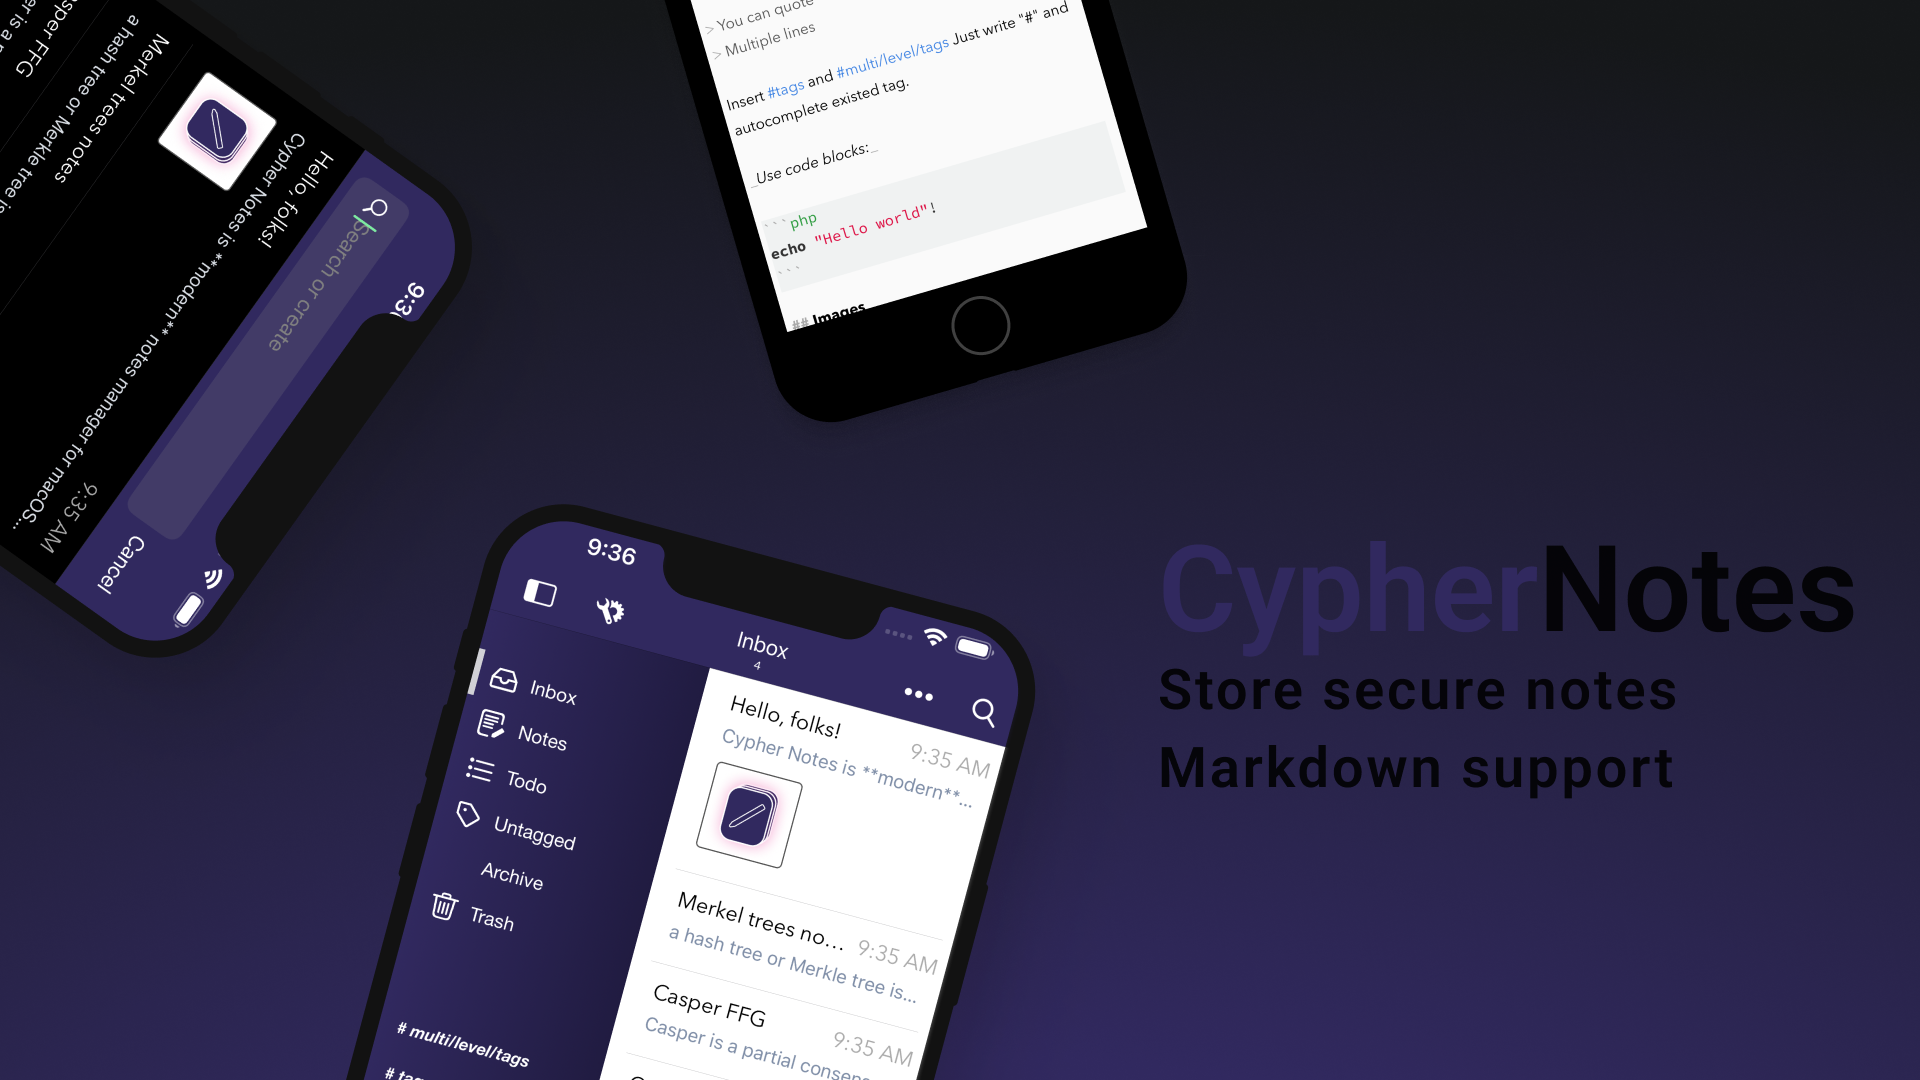
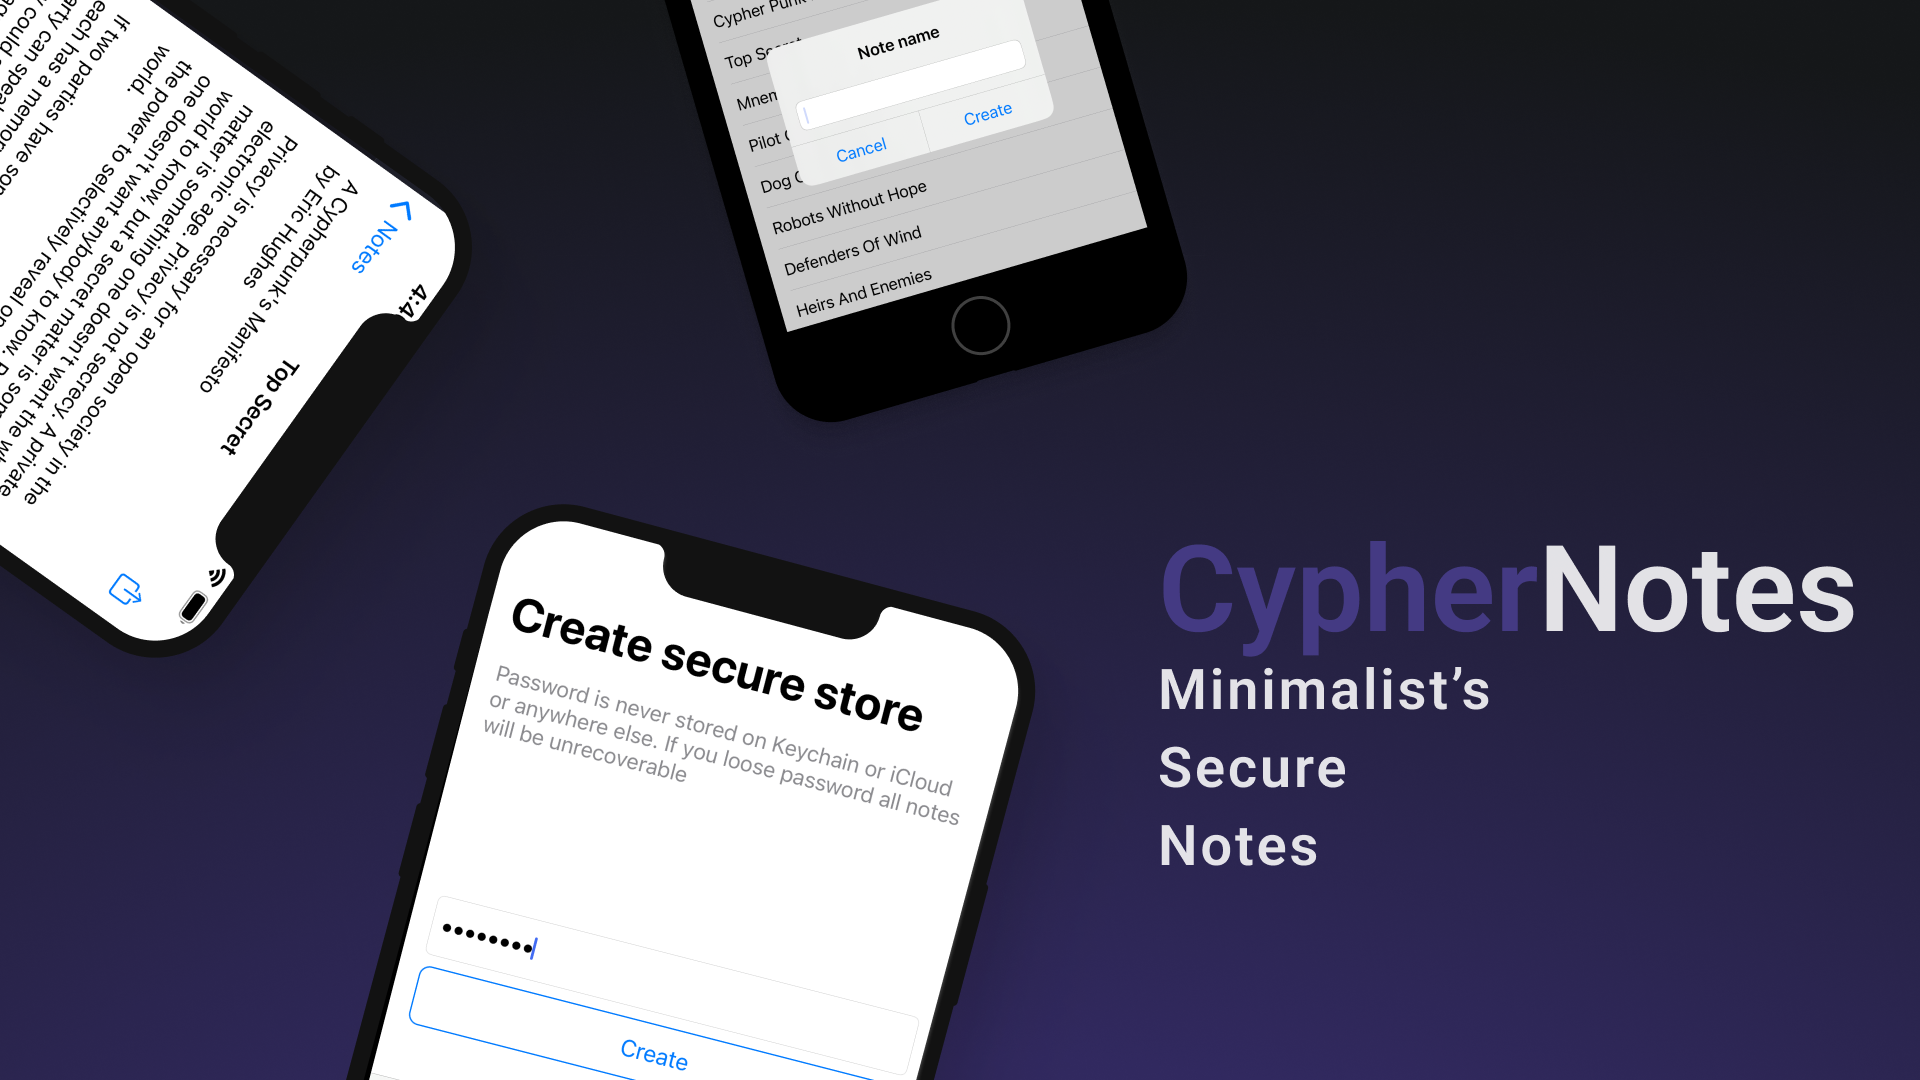
Updating site

diff --git a/app/(apps)/cyphernotes/page.tsx b/app/(apps)/cyphernotes/page.tsx
@@ -18,11 +18,14 @@ const featureDetails = [
         title: "Store images & plain text",
         subtitle: "Seamless exchange of plain text files, like Markdown or Fountain, between sandboxed applications."
     },
-    {title: "Store notes secure with", subtitle: "Encrypted Text Bundle is Text Pack, but encrypted with RNCryptor."},
-    {title: "Markdown-first", subtitle: " Additionally supports plaintext and RTF files."},
-    {title: "Fast and lightweight", subtitle: "Handles 10k+ files without breaking sweat"},
-    {title: "Access anywhere", subtitle: "Sync with iCloud Drive or Dropbox or even with Github repository."},
-    {title: "Syntax highlighting", subtitle: " within code blocks. Supports over 170 programming languages"},
+    {
+        title: "Store notes secure with",
+        subtitle: "Encrypted Text Bundle is Text Pack, but encrypted with RNCryptor."
+    },
+    {
+        title: "Markdown-first",
+        subtitle: " Additionally supports plaintext and RTF files."
+    },
 ]
 
 const zigzagItems = [
@@ -56,9 +59,11 @@ export default function CypherNotes() {
         <>
             <Hero
                 title={"Cypher Notes"}
-                subtitle={"Cypher notes is modern notes manager for iOS. App respects open formats like GitHub Flavored Markdown, so you can easily write documents on iPhone. It's simple and blazing fast!"}
-                downloadURL={"https://testflight.apple.com/join/MSYsRXau"}
-                supportURL={"https://github.com/libresoftwaredistribution/cyphersnotes/issues"}
+                subtitle={"Minimalist, Secure, Powerful, Notes"}
+                primaryTitle={"Download"}
+                primaryURL={"https://apps.apple.com/us/app/cypher-notes-by-lsd/id6461458801"}
+                secondaryTitle={"Support"}
+                secondaryURL={"https://github.com/libresoftwaredistribution/libresoftwaredistribution.github.io/issues"}
                 heroImage={heroImage}
             />
             <Features

diff --git a/components/hero.tsx b/components/hero.tsx
@@ -5,8 +5,10 @@ import Image from "next/image";
 interface HeroProps {
     title: string
     subtitle: string
-    downloadURL: string
-    supportURL: string
+    primaryTitle: string
+    primaryURL: string
+    secondaryTitle: string
+    secondaryURL: string
     heroImage: any
 }
 
@@ -14,8 +16,10 @@ interface HeroProps {
 export default function Hero({
     title,
     subtitle,
-    downloadURL,
-    supportURL,
+    primaryTitle,
+    primaryURL,
+    secondaryTitle,
+    secondaryURL,
     heroImage,
 }: HeroProps) {
     return (
@@ -50,17 +54,14 @@ export default function Hero({
                             <p className="text-xl text-gray-400 mb-8" data-aos="fade-up" data-aos-delay="200">
                                 {subtitle}
                             </p>
-                            <p className="text-xl text-gray-400 mb-8" data-aos="fade-up" data-aos-delay="200">
-                                © Libre Software Distribution S.R.L. 48394643 Romania
-                            </p>
                             <div className="max-w-xs mx-auto sm:max-w-none sm:flex sm:justify-center">
                                 <div data-aos="fade-up" data-aos-delay="400">
                                     <a className="btn text-white bg-purple-600 hover:bg-purple-700 w-full mb-4 sm:w-auto sm:mb-0"
-                                       href={downloadURL}>Book free consultation</a>
+                                       href={primaryURL}>{primaryTitle}</a>
                                 </div>
                                 <div data-aos="fade-up" data-aos-delay="600">
                                     <a className="btn text-white bg-gray-700 hover:bg-gray-800 w-full sm:w-auto sm:ml-4"
-                                       href={supportURL}>Support</a>
+                                       href={secondaryURL}>{secondaryTitle}</a>
                                 </div>
                             </div>
 

diff --git a/app/(apps)/timidbrowser/page.tsx b/app/(apps)/timidbrowser/page.tsx
@@ -50,8 +50,8 @@ export default function TimidBrowser() {
             <Hero
                 title={"Timid Browser"}
                 subtitle={"When is comes to privacy, compartmentalization is important tool in the tool box. Separate browser for your work stuff, personal & anon stuff is wise way to go. If you love Brave browser and you wish you could have another instance of it on your phone, that's where Timid comes in."}
-                downloadURL={"https://testflight.apple.com/join/mZbcqiQ0"}
-                supportURL={"https://github.com/libresoftwaredistribution/timid-browser-ios/issues"}
+                primaryURL={"https://testflight.apple.com/join/mZbcqiQ0"}
+                secondaryURL={"https://github.com/libresoftwaredistribution/timid-browser-ios/issues"}
                 heroImage={heroImage}
             />
             <Features

diff --git a/app/(default)/page.tsx b/app/(default)/page.tsx
@@ -50,8 +50,10 @@ export default function TimidBrowser() {
         <Hero
             title={"libreSoftDistro"}
             subtitle={"Lovingly, expertly crafted software is the epitome of technological excellence infused with a heartfelt passion for the craft. The attention to detail is unparalleled, with each feature carefully designed and meticulously implemented to ensure a seamless user experience."}
-            downloadURL={"mailto:libresoftdistrolab@protonmail.com"}
-            supportURL={"mailto:libresoftdistrolab@protonmail.com"}
+            primaryTitle={"Book free consultation"}
+            primaryURL={"mailto:libresoftdistrolab@protonmail.com"}
+            secondaryTitle={"Support"}
+            secondaryURL={"mailto:libresoftdistrolab@protonmail.com"}
             heroImage={heroImage}
         />
         <Features

diff --git a/next.config.js b/next.config.js
@@ -1,6 +1,6 @@
 /** @type {import('next').NextConfig} */
 
-const isProd = true
+const isProd = false
 const pathPrefix = isProd ? 'https://libresoftdistro.com' : undefined
 
 const nextConfig = {
